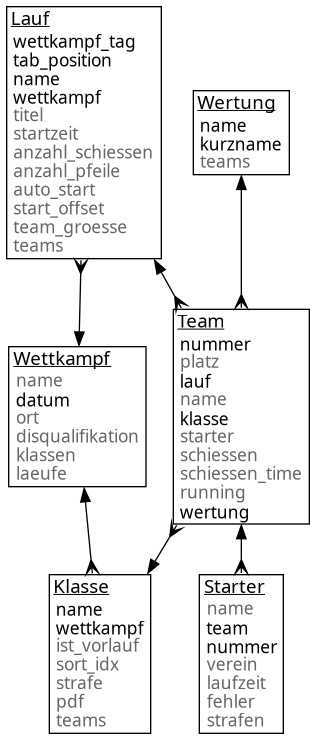
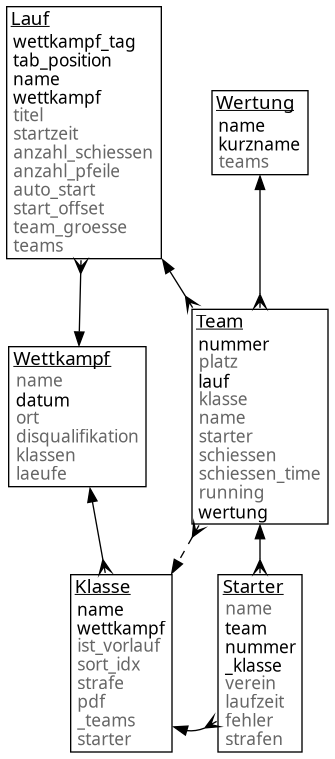
Klasse is used for indicating Bogenklasse, but also for indicating Wertungsklasse. Hence all Staffel-Teams need to belong to the same Wertungsklasse even though their individual starters have different Bogenklasse. Thus, Teams need to hold their own Klasse field.

Changed region(s): [[0.0, 0.0, 0.9968, 0.9946]]

diff --git a/webola/database.py b/webola/database.py
@@ -71,11 +71,11 @@ class Wertung(db.Entity):
         Wertung(name = 'Did Not Start'   , kurzname='DNS'     )
         
 class Team(db.Entity):
-    nummer    = Required(int, min=1)#, max=20)
+    nummer    = Required(int, min=1, max=20)
     platz     = Optional(int, min=1, max=20)
     lauf      = Required(Lauf)
+    klasse    = Optional('Klasse') # only used in staffel mode
     name      = Optional(str)
-    klasse    = Required('Klasse')
     starter   = Set("Starter") 
     schiessen = Optional(int, min=0)
     schiessen_time = Optional(float)
@@ -150,9 +150,10 @@ class Team(db.Entity):
             verein = self.single().verein
         return name, verein
 
-    def update_anzahl(self, n):
+    def update_anzahl(self, n, wettkampf):
+        default = Klasse.default(wettkampf)
         for num in range(self.anzahl(), n): 
-            Starter(team=self, nummer=num+1,strafen=0)
+            Starter(team=self, nummer=num+1,strafen=0,_klasse=default)
         delete( s for s in Starter if s.team == self and s.nummer > n)
       
     def get_abstand(self, first):
@@ -202,10 +203,11 @@ class Team(db.Entity):
                 return times+', '+suffix
         else:
             verein = self.single().verein
+            klasse = self.single().klasse().name
             
-            data = ( '%s, %s' % (self.klasse.name, verein) if self.klasse and verein != "" else
-                   ( '%s'     %  self.klasse.name          if self.klasse                  else
-                   ( '%s'     %                    verein  if                 verein != "" else '' )))
+            data = ( '%s, %s' % (klasse, verein) if klasse and verein else
+                   ( '%s'     %  klasse          if klasse            else
+                   ( '%s'     %          verein  if            verein else '' )))
             if parts:
                 return data, ""
             else:
@@ -254,7 +256,8 @@ class Klasse(db.Entity):
     sort_idx    = Optional(int)
     strafe      = Optional(int) 
     pdf         = Optional(unicode, unique=True)
-    teams       = Set('Team')
+    _teams      = Set('Team')
+    starter     = Set('Starter')
 
     composite_key(name, wettkampf)
 
@@ -262,8 +265,14 @@ class Klasse(db.Entity):
     
     def vorlauf          (self, status): self.ist_vorlauf = status
     def set_printing_done(self, pdf   ): self.pdf = str(pdf) if pdf else None
-    def is_wertung_done  (self        ): return all( t.lauf.has_finished() for t in self.teams )
-    def ist_staffel      (self        ): return any( t.ist_staffel()       for t in self.teams )    
+    def ist_staffel      (self        ): return any( t.ist_staffel() for t in self.teams() )    
+
+
+    def teams(self):
+        return self._teams or set(s.team for s in self.starter)
+
+    def is_wertung_done(self): 
+        return all( t.lauf.has_finished() for t in self.teams() )
     
     @staticmethod
     def get_or_create(**kwargs):
@@ -273,9 +282,13 @@ class Klasse(db.Entity):
             return Klasse(**kwargs).update()
 
     @staticmethod
+    def default(wettkampf): 
+        return Klasse.get_or_create(name='Keine Bogenklasse', wettkampf=wettkampf)
+
+    @staticmethod
     def relevant(wettkampf):
         for klasse in Klasse.select(wettkampf=wettkampf):
-            if not klasse.teams:
+            if not klasse.starter:
                 klasse.delete()
             else:
                 yield klasse
@@ -291,23 +304,19 @@ class Starter(db.Entity):
     name      = Optional(str)
     team      = Required(Team)
     nummer    = Required(int, min=1)
+    _klasse   = Required(Klasse)
     verein    = Optional(str)
     laufzeit  = Optional(float)
     fehler    = Optional(int, min=0)
     strafen   = Optional(int, min=0)
 
-    def einheit(self):
-        return self.team.klasse.strafe
-
-    def strafzeit(self, sec='s'):
-        if self.strafen:
-            unit = '' if sec=='s' else 'min'
-            fac  = self.klasse.strafe
-            return f"{self.strafen}x{fac}{sec} = {time2str(self.strafen*fac, zehntel=False)}{unit}"
-        else:
-            return ""
+    def klasse(self):
+        return self._klasse or self.team.klasse
     
-    def data_missing(self): return not all((self.name, self.verein, self.team.klasse))
+    def einheit(self):
+        return self.klasse().strafe
+    
+    def data_missing(self): return not all((self.name, self.verein, self.klasse))
     
     def get_name(self, w=None):
         name = self.name                                           if self.name else (
@@ -327,7 +336,7 @@ class Starter(db.Entity):
         else:
             return "%s [%2s]" % (time2str(self.zeit()), '--' if self.fehler is None else "%2d" % self.fehler) 
     
-    def is_empty(self): return all(e is None or e == "" for e in (self.name, self.team.klasse, self.verein))
+    def is_empty(self): return all(e is None or e == "" for e in (self.name, self.klasse, self.verein))
 
     def zeit(self):
         return None if self.laufzeit is None else (
@@ -347,8 +356,8 @@ if __name__ == '__main__':
         team      = Team(nummer = 3, lauf = lauf, name = "Werder", wertung=Wertung.get(kurzname='default'))
         cadet     = Klasse(name='Cadet (M) standard' ).update()
         senior    = Klasse(name='Senior (W) standard').update()
-        Starter(name='AA', verein='WB', team=team, nummer=1, laufzeit=72, fehler=2, strafen=2, klasse=cadet)
-        Starter(name='AB', verein='WB', team=team, nummer=2, laufzeit=56, fehler=3, strafen=1, klasse=senior)
+        Starter(name='AA', verein='WB', team=team, nummer=1, laufzeit=72, fehler=2, strafen=2, _klasse=cadet)
+        Starter(name='AB', verein='WB', team=team, nummer=2, laufzeit=56, fehler=3, strafen=1, _klasse=senior)
         Starter(team=team, nummer=3, strafen=0)
 
         print(team.fehler(),team.strafen())

diff --git a/webola/dialogs.py b/webola/dialogs.py
@@ -7,7 +7,7 @@ from pony import orm
 from webola import database
 import sys
 from webola.containers import HBoxContainer, VBoxContainer
-from webola.database import Starter, Wettkampf, Lauf, Wertung, Klasse
+from webola.database import Wettkampf, Lauf, Wertung, Klasse
 from pony.orm.core import commit
 from webola.buttons import NoFocusButton
 
@@ -257,12 +257,12 @@ class Data():
           
         for s in orm.select( s for s in database.Starter if s.team.lauf.wettkampf == wettkampf ):
         
-            self.klassen.add(s.team.klasse)
+            self.klassen.add(s.klasse())
             if s.verein is not None: self.vereine.add(s.verein)
             if s.name   is not None: 
                 self.namen.add(s.name)
-                self.register(s.name, s.verein     , self.name2verein)
-                self.register(s.name, s.team.klasse, self.name2klasse)
+                self.register(s.name, s.verein  , self.name2verein)
+                self.register(s.name, s.klasse(), self.name2klasse)
 
     def register(self, name, info, container):
         if info is None: return
@@ -274,10 +274,6 @@ class Data():
     def verein(self, name):
         if name in self.name2verein:
             return ", ".join(self.name2verein[name]), len(self.name2verein[name])
-
-    def klasse(self, name):
-        if name in self.name2klasse:
-            return ", ".join(self.name2klasse[name]), len(self.name2klasse[name])
 
 def make_edit(text, hint):
     edit = QLineEdit()
@@ -294,11 +290,11 @@ class StarterColumn():
         max_fehler = lauf.anzahl_schiessen * lauf.anzahl_pfeile
         
         self.wettkampf   = lauf.wettkampf
-        self.name        = self.make_edit(starter.name            , starter.get_name(), data.namen  )
-        self.klasse      = self.make_edit(starter.team.klasse.name, 'Bogenklasse'     , [k.name for k in data.klassen], clear=True)
-        self.verein      = self.make_edit(starter.verein          , 'Verein'          , data.vereine)
+        self.name        = self.make_edit(starter.name         , starter.get_name(), data.namen  )
+        self.klasse      = self.make_edit(starter.klasse().name, 'Bogenklasse'     , [k.name for k in data.klassen], clear=True)
+        self.verein      = self.make_edit(starter.verein       , 'Verein'          , data.vereine)
         self.penalty     = Penalty(number     = starter.strafen, 
-                                   unit       = team.klasse.strafe, 
+                                   unit       = starter.klasse().strafe, 
                                    max_anzahl = lauf.wettkampf.disqualifikation or None) # 0 also means None
         self.zeit_fehler = TimeAndSpin(starter.laufzeit, starter.fehler, max_fehler, team.ist_staffel())
 
@@ -335,14 +331,21 @@ class StarterColumn():
             elif n >= 2:
                 self.verein.setPlaceholderText(verein)
         
-        if self.klasse.text() == '':
-            klasse, n = data.klasse(name) 
-            if n == 1:
-                self.klasse.setText(klasse)
-                self.penalty.unit.setValue( Starter.klasse.strafe )
-            elif n >= 2:
-                self.klasse.setPlaceholderText(klasse)
-
+        default = Klasse.default(self.wettkampf)
+        
+        if self.klasse.text() in ('', default.name):
+            klassen = data.name2klasse[name] if name in data.name2klasse else []
+            if len(klassen) == 0:
+                self.klasse.setText(default.name)
+                self.klasse.setClearButtonEnabled(True)
+            elif len(klassen) == 1:
+                klasse = klassen.pop()
+                self.klasse.setText(klasse.name)
+                self.penalty.unit.setValue( klasse.strafe )
+                self.klasse.setClearButtonEnabled(False)
+            else:
+                text = ", ".join(k.name for k in sorted(klassen))
+                self.klasse.setPlaceholderText(text)
 
 class WertungCombo(QComboBox):
     def __init__(self, wertung):
@@ -453,8 +456,8 @@ class Edit(OkCancelDialog):
             db.name    = self.maybe_update( db.name  , gui.name   ) 
             db.verein  = self.maybe_update( db.verein, gui.verein )
             
-            if db.team.klasse.name != gui.klasse.text():
-                db.team.klasse = Klasse.get_or_create(name=gui.klasse.text(), wettkampf=self.team.lauf.wettkampf)
+            if db.klasse().name != gui.klasse.text():
+                db._klasse = Klasse.get_or_create(name=gui.klasse.text(), wettkampf=self.team.lauf.wettkampf)
             
             fehler = gui.zeit_fehler.spin.value()
             if db.fehler is None and fehler == -1: fehler = None
@@ -508,7 +511,7 @@ class GroupEdit(OkCancelDialog):
                 name.setCursorPosition(0)
                 name.setReadOnly(True)
                 name.setFocusPolicy(Qt.NoFocus)
-                name.setToolTip(f'{starter.verein}, {starter.team.klasse}')
+                name.setToolTip(f'{starter.verein}, {starter.klasse}')
                 
                 fehler = -1 if starter.fehler is None else starter.fehler
                 self.spins.append(NoHighlightSpinBox(fehler, maximum=max_fehler))

diff --git a/webola/statistik.py b/webola/statistik.py
@@ -44,9 +44,9 @@ class Medaillenspiegel():
         self.sort()
 
     def register_results(self, wettkampf):
-        for wertung in collect_data(wettkampf):
+        for klasse in collect_data(wettkampf):
             pos = 0
-            for team in Team.sortiere(wertung.teams):
+            for team in Team.sortiere(klasse.teams()):
                 maybe_staffel = self.with_staffel or not team.ist_staffel()
                 if maybe_staffel and team.is_ranked() and team.platz:
                     pos += 1
@@ -119,20 +119,26 @@ class Medaillenspiegel():
 def valid(string):
     return string and string != "" 
 
+def teams2klassen(teams):
+    klassen = set()
+    for team in teams:
+        for starter in team.liste():
+            klassen.add(starter.klasse())
+    klassen.update(filter(None, (t.klasse for t in teams)))
+    return sorted( klassen )
+
 def collect_data(source, empty=True, tag=None):
     if isinstance(source, Lauf):
-        teams   = Team.select(lambda t: t.lauf == source)
-        klassen = sorted( t.klasse for t in teams )
+        klassen = teams2klassen(Team.select(lambda t: t.lauf == source))
     elif tag:
-        teams   = Team.select(lambda t: t.lauf.wettkampf == source and  t.lauf.wettkampf_tag == tag)
-        klassen = sorted( t.klasse for t in teams )
+        klassen = teams2klassen(Team.select(lambda t: t.lauf.wettkampf == source and  t.lauf.wettkampf_tag == tag))
     else:
         klassen = sorted(Klasse.relevant(source))
         
     if empty:
         return klassen
     else:
-        return [ k for k in klassen if not any(t.has_finished() for t in k.teams) ] 
+        return [ k for k in klassen if not any(t.has_finished() for t in k.teams()) ] 
         
 if __name__ == '__main__':    
     from webola.database import db

diff --git a/webola/importer.py b/webola/importer.py
@@ -46,11 +46,14 @@ def create_dm23_db_lauf(nr, wettkampf, sheet, row, col, max_row, dm_mode):
             num     = int(nummer.split('-')[1])
             name    = cell(row+n, 'Vorname')+' '+cell(row+n, 'Nachname')
             verein  = cell(row+n, 'Verein')
-            klasse  = Klasse.get_or_create(cell(row+n, 'Klasse'))
+            if found := cell(row+n, 'Klasse'):
+                klasse = Klasse.get_or_create(name=found, wettkampf=wettkampf)
+            else:
+                klasse = Klasse.default(wettkampf)
             wertung = not dm_mode or wertung_for(name, verein)
 
             team    = database.Team(nummer=num, lauf=l, wertung=wertung)
-            _       = database.Starter(name=name or "", verein=verein or "", klasse=klasse,team=team, nummer=1, strafen=0)
+            _       = database.Starter(name=name or "", verein=verein or "", _klasse=klasse,team=team, nummer=1, strafen=0)
             
         elif second.startswith('Staffel'):
             l.titel = second
@@ -65,7 +68,6 @@ def create_db_lauf(nr, wettkampf, sheet, row, col, max_row, dm_mode):
                          wettkampf_tag = 1,
                          tab_position = nr-1, 
                          startzeit = str(cell(row,'Startzeit')))
-    default = Klasse.get_or_create(name='Keine Bogenklasse', wettkampf=wettkampf)
     
     for n in range(max_row-row+1):
         name   = cell(row+n, 'Name'  )
@@ -74,12 +76,12 @@ def create_db_lauf(nr, wettkampf, sheet, row, col, max_row, dm_mode):
         if found := cell(row+n, 'Klasse'):
             klasse = Klasse.get_or_create(name=found, wettkampf=wettkampf)
         else:
-            klasse = default
+            klasse = Klasse.default(wettkampf)
             
         if all([name,verein,klasse]): 
             wertung = not dm_mode or wertung_for(name, verein)
-            team = database.Team(nummer=n+1,lauf=l, wertung=wertung, klasse=klasse)
-            _    = database.Starter(name=name or "", verein=verein or "", team=team, nummer=1, strafen=0)
+            team = database.Team(nummer=n+1,lauf=l, wertung=wertung)
+            _    = database.Starter(name=name or "", verein=verein or "", team=team, nummer=1, strafen=0, _klasse=klasse)
         elif any([name,verein,klasse]): 
             info(f"*** Unvollständige Daten *** name='{name}', verein='{verein}', klasse='{klasse.name}' in Zeile {row+n}")
 
@@ -106,7 +108,7 @@ def create_coloured_db_lauf(wettkampf, sheet, run_num, start, stop, row, col_for
             klasse    = Klasse.get_or_create(f"{ageclass} ({gender}) {bow}")
             wertung   = wertung_for(name, verein) if dm_mode else Wertung.get(kurzname='default') 
             team      = database.Team(nummer=nummer,lauf=l,wertung=wertung)
-            _         = database.Starter(name=name, verein=verein, klasse=klasse, team=team, nummer=1, strafen=0)
+            _         = database.Starter(name=name, verein=verein, _klasse=klasse, team=team, nummer=1, strafen=0)
 
     db.commit()
 

diff --git a/webola/team.py b/webola/team.py
@@ -9,7 +9,7 @@ from webola.utils import time2str
 from webola.dialogs import AskModified, AskRestart, Edit
 from webola import database
 import webola
-from webola.database import Wertung, Klasse
+from webola.database import Wertung
 
 def get_parent(base, typ):
     parent = base.parent()
@@ -31,8 +31,7 @@ class TeamButton(SubtitleButton):
     @with_update_tooltip   
     def __init__(self, num, lauf, team=None):
         SubtitleButton.__init__(self, self.was_clicked)
-        default       = Klasse.get_or_create(name='Keine Bogenklasse', wettkampf=lauf.lauf.wettkampf)
-        self.team     = team or database.Team(nummer=num,lauf=lauf.lauf,wertung=1,klasse=default)
+        self.team     = team or database.Team(nummer=num,lauf=lauf.lauf,wertung=1)
         self.lauf     = lauf
         self.offset   = 0
         self.modified = False

diff --git a/webola/xlsx.py b/webola/xlsx.py
@@ -132,7 +132,7 @@ def serial_export(staffel, xlsx, wettkampf, header, write_cell):
         # renumber all positions within the current class since team.platz is the position in the team's run
         pos, sieger = 1, None
         
-        for team in Team.sortiere(klasse.teams):
+        for team in Team.sortiere(klasse.teams()):
             if team.ist_staffel() == staffel and team.platz and not team.is_dsq():
                 nr = team.anzahl()
                 ns = team.lauf.anzahl_schiessen
@@ -149,7 +149,7 @@ def serial_export(staffel, xlsx, wettkampf, header, write_cell):
                 sheet.write('Treffer'    , treffer               )
                 sheet.write('Laufzeit'   , time2str(team.laufzeit()))
                 sheet.write('Strafen', sum(s.strafen for s in team.liste() ) )
-                einheiten = set( s.team.klasse.strafe for s in team.liste() )
+                einheiten = set( s.klasse().strafe for s in team.liste() )
                 if len(einheiten) == 1:
                     sheet.write('Einheit', einheiten.pop()   )
                 else: